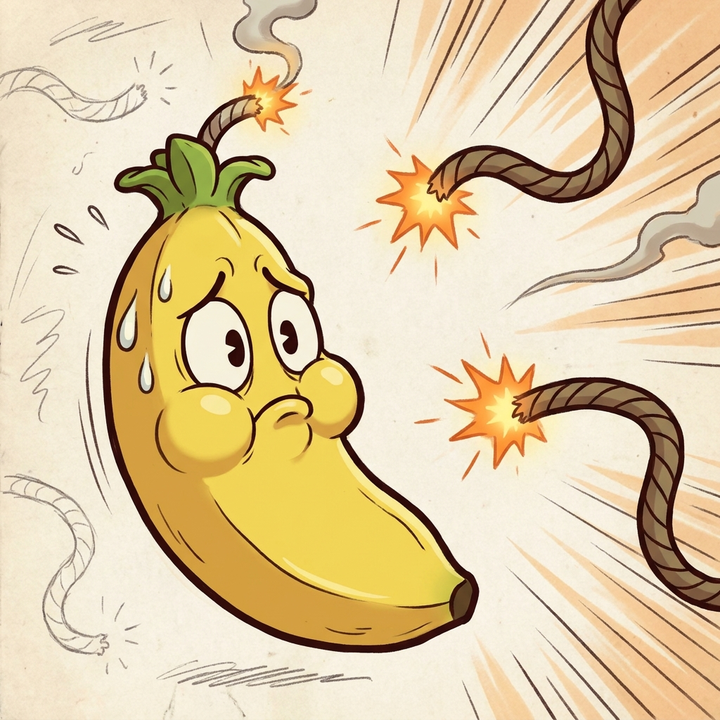
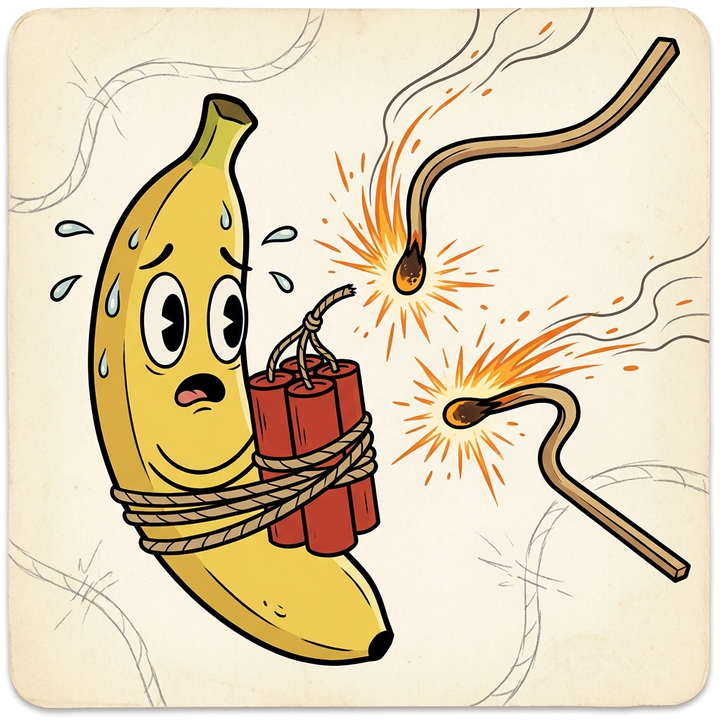
Regenerate marketing art to match in-game banana style
The first nano-banana-pro set rendered a generic "green-topped bomb"
that didn't match the game sprites. Reworked the HERO/style-lock to use
the same art prompt as the game assets (Cuphead 1930s rubber-hose, thick
black ink, flat muted vintage colors, no shading) and regenerated all 5
masters with the real character: cute yellow banana with a red TNT bundle
strapped with rope, frightened pie-cut eyes + sweat drops, matchstick
threats with orange sparks.

- gen-covers.mjs: new STYLE_LOCK + HERO + THREAT + icon prompt
- derive-assets.py unchanged; re-derived every portal size from new masters
- cache bust bumped ?v=ctf1 → ?v=ctf2 in index.html + site.webmanifest
- bundle scripts + smoke check + docs updated to ctf2

diff --git a/index.html b/index.html
@@ -102,21 +102,21 @@
     <meta name="format-detection" content="telephone=no" />
     <meta name="application-name" content="Cut the Fuse" />
     <meta name="msapplication-TileColor" content="#F6ECD1" />
-    <meta name="msapplication-TileImage" content="https://play.cutthefuse.com/icon-192.png?v=ctf1" />
+    <meta name="msapplication-TileImage" content="https://play.cutthefuse.com/icon-192.png?v=ctf2" />
 
     <link rel="canonical" href="https://play.cutthefuse.com/" />
-    <link rel="image_src" href="https://play.cutthefuse.com/og.png?v=ctf1" />
+    <link rel="image_src" href="https://play.cutthefuse.com/og.png?v=ctf2" />
 
-    <link rel="apple-touch-icon" href="https://play.cutthefuse.com/apple-touch-icon.png?v=ctf1" />
-    <link rel="apple-touch-icon" sizes="180x180" href="https://play.cutthefuse.com/apple-touch-icon.png?v=ctf1" />
-    <link rel="apple-touch-icon-precomposed" href="https://play.cutthefuse.com/apple-touch-icon.png?v=ctf1" />
+    <link rel="apple-touch-icon" href="https://play.cutthefuse.com/apple-touch-icon.png?v=ctf2" />
+    <link rel="apple-touch-icon" sizes="180x180" href="https://play.cutthefuse.com/apple-touch-icon.png?v=ctf2" />
+    <link rel="apple-touch-icon-precomposed" href="https://play.cutthefuse.com/apple-touch-icon.png?v=ctf2" />
 
     <!-- Favicons (tabs). Transparent PNG; .ico fallback. -->
-    <link rel="icon" type="image/png" sizes="32x32" href="/favicon-32.png?v=ctf1" />
-    <link rel="icon" type="image/png" sizes="16x16" href="/favicon-16.png?v=ctf1" />
-    <link rel="icon" type="image/png" sizes="48x48" href="/favicon-48.png?v=ctf1" />
-    <link rel="icon" href="/favicon.ico?v=ctf1" sizes="any" />
-    <link rel="manifest" href="/site.webmanifest?v=ctf1" />
+    <link rel="icon" type="image/png" sizes="32x32" href="/favicon-32.png?v=ctf2" />
+    <link rel="icon" type="image/png" sizes="16x16" href="/favicon-16.png?v=ctf2" />
+    <link rel="icon" type="image/png" sizes="48x48" href="/favicon-48.png?v=ctf2" />
+    <link rel="icon" href="/favicon.ico?v=ctf2" sizes="any" />
+    <link rel="manifest" href="/site.webmanifest?v=ctf2" />
     <meta name="apple-mobile-web-app-capable" content="yes" />
     <meta name="apple-mobile-web-app-status-bar-style" content="default" />
     <meta name="apple-mobile-web-app-title" content="Cut the Fuse" />
@@ -129,8 +129,8 @@
     <meta property="og:url" content="https://play.cutthefuse.com/" />
     <meta property="og:title" content="Cut the Fuse" />
     <meta property="og:description" content="One snip from disaster. Cut the burning fuses before the sparks reach the bomb." />
-    <meta property="og:image" content="https://play.cutthefuse.com/og.png?v=ctf1" />
-    <meta property="og:image:secure_url" content="https://play.cutthefuse.com/og.png?v=ctf1" />
+    <meta property="og:image" content="https://play.cutthefuse.com/og.png?v=ctf2" />
+    <meta property="og:image:secure_url" content="https://play.cutthefuse.com/og.png?v=ctf2" />
     <meta property="og:image:type" content="image/png" />
     <meta property="og:image:width" content="1200" />
     <meta property="og:image:height" content="630" />
@@ -138,7 +138,7 @@
     <meta name="twitter:card" content="summary_large_image" />
     <meta name="twitter:title" content="Cut the Fuse" />
     <meta name="twitter:description" content="One snip from disaster. Cut the burning fuses before the sparks reach the bomb." />
-    <meta name="twitter:image" content="https://play.cutthefuse.com/og.png?v=ctf1" />
+    <meta name="twitter:image" content="https://play.cutthefuse.com/og.png?v=ctf2" />
     <meta name="twitter:image:alt" content="Cut the Fuse — a worried banana bomb with sparks racing down fuses toward it" />
     <meta name="twitter:url" content="https://play.cutthefuse.com/" />
 

diff --git a/cert/THUMBNAILS.md b/cert/THUMBNAILS.md
@@ -16,10 +16,11 @@ The web OG (`og.png`, 1200×630) is the only asset that carries the title.
 
 ## Composition brief (locked shelf-punch)
 
-1. **Hero:** Bananabomb — chubby banana-shaped yellow bomb, perky green top,
-   worried panicked eyes, sweat drops, lit fuse with a bright orange spark.
-2. **Threat:** 2–3 long dark-brown braided fuses with bright orange sparks racing
-   toward the bomb.
+1. **Hero:** the game's cute yellow banana with a bundle of red TNT strapped with
+   rope, sweating nervously, wide frightened pie-cut eyes, small open mouth,
+   black-ink flat-vintage style (same prompt family as the in-game sprite art).
+2. **Threat:** 2–3 long wooden matchsticks with bright orange sparks + amber
+   live-wire trails racing toward the banana.
 3. **Ground:** aged off-white vintage note-paper desk, faint pencil-drawn fuse lines.
 4. **One idea:** a spark is burning down the fuse toward the bomb — snip in time.
 5. **Safe margins:** bomb, sparks, and fuse heads stay fully inside the frame.
@@ -31,8 +32,9 @@ derived by `tools/gen-marketing/derive-assets.py`. See `tools/gen-marketing/READ
 
 ## Status
 
-- [x] **Shelf-punch LOCKED (nano-banana-pro, 2026-08-29)** → `shelf-punch-*-LOCKED.png`
+- [x] **Shelf-punch LOCKED v2 (nano-banana-pro, 2026-08-29)** → `shelf-punch-*-LOCKED.png`
+      — v2 regen matches the in-game banana art (TNT-strapped banana, pie-cut eyes)
 - [x] **Playgama covers** → `playgama/covers/{800x800,1080x1920,1920x1080}.png`
-- [x] **Web OG LOCKED** → `locked-branding/og-LOCKED.png` / root `og.png` — live `?v=ctf1`
-- [x] **Favicon + Apple/PWA LOCKED** → `locked-branding/` — live `?v=ctf1`
+- [x] **Web OG LOCKED** → `locked-branding/og-LOCKED.png` / root `og.png` — live `?v=ctf2`
+- [x] **Favicon + Apple/PWA LOCKED** → `locked-branding/` — live `?v=ctf2`
 - [ ] Portal pixel sizes confirmed if suite differs: _____ × _____

diff --git a/locked-branding/README.md b/locked-branding/README.md
@@ -3,18 +3,20 @@
 Brand-lock files (icons, favicons, OG images) that must **never** be packed into
 any distribution zip (`dist/`, `playgama/`, `cert/` all assert this).
 
-**Status: LOCKED (2026-08-29, nano-banana-pro).** Shipping share / tab / home-screen
+**Status: LOCKED (2026-08-29 v2, nano-banana-pro).** Shipping share / tab / home-screen
 assets for `play.cutthefuse.com`. Same layout family as Big Fluff / Wobble Run.
-Do not overwrite without an intentional unlock + new `?v=` cache bust.
+v2 regenerated the banana to match the in-game art (TNT-strapped banana, pie-cut
+eyes, black-ink flat-vintage style). Do not overwrite without an intentional
+unlock + new `?v=` cache bust.
 
 ## Live (play.cutthefuse.com)
 
 | Asset | Live file | Cache bust |
 |-------|-----------|------------|
-| Open Graph / share | `/og.png` | `?v=ctf1` |
-| Favicons | `/favicon-{16,32,48}.png`, `/favicon.ico` | `?v=ctf1` |
-| Apple home screen | `/apple-touch-icon.png` | `?v=ctf1` |
-| PWA icons + manifest | `/icon-192.png`, `/icon-512.png`, `/site.webmanifest` | `?v=ctf1` |
+| Open Graph / share | `/og.png` | `?v=ctf2` |
+| Favicons | `/favicon-{16,32,48}.png`, `/favicon.ico` | `?v=ctf2` |
+| Apple home screen | `/apple-touch-icon.png` | `?v=ctf2` |
+| PWA icons + manifest | `/icon-192.png`, `/icon-512.png`, `/site.webmanifest` | `?v=ctf2` |
 
 ## What's locked here
 
@@ -37,5 +39,5 @@ cd tools/gen-marketing
 node gen-covers.mjs --generate      # MuAPI nano-banana-pro
 python3 derive-assets.py            # all sizes → cert/ playgama/ locked-branding/ root
 cd ../..
-# bump ?v=ctf1 → ?v=ctf2 in index.html + site.webmanifest, then ./deploy.sh
+# bump ?v=ctf2 → ?v=ctf3 in index.html + site.webmanifest, then ./deploy.sh
 ```

diff --git a/tools/gen-marketing/README.md b/tools/gen-marketing/README.md
@@ -52,6 +52,15 @@ python3 tools/gen-marketing/derive-assets.py
   font (Luckiest Guy) by `derive-assets.py`.
 - `locked-branding/` is brand-lock only — never packed into any distribution zip.
 
+## Style lock
+
+The style lock in `gen-covers.mjs` matches the in-game 2D art prompt used for the
+game sprites: **1930s rubber-hose / Cuphead vintage cartoon, 2D vector mobile game
+asset, thick black ink outlines, flat muted vintage colors, no shading / no 3D /
+no realism / no complex details**. Hero is the game's cute yellow banana with a
+red TNT dynamite bundle strapped with rope (pie-cut frightened eyes, sweat drops).
+Threat is wooden matchsticks with orange sparks, matching the in-game wicks.
+
 ## API key
 
 `MUAPI_KEY` — env var, `tools/gen-marketing/.env`, or
@@ -66,4 +75,6 @@ python3 tools/gen-marketing/derive-assets.py
 ## Status
 
 - [x] 2026-08-29 — first LOCKED set generated (nano-banana-pro), all sizes derived
+- [x] 2026-08-29 — v2 regen: banana redrawn to match the in-game art (TNT-strapped
+      banana, pie-cut eyes, black-ink flat-vintage style); cache bust → `?v=ctf2`
 - [ ] Portal pixel sizes confirmed if suite differs: _____ × _____
